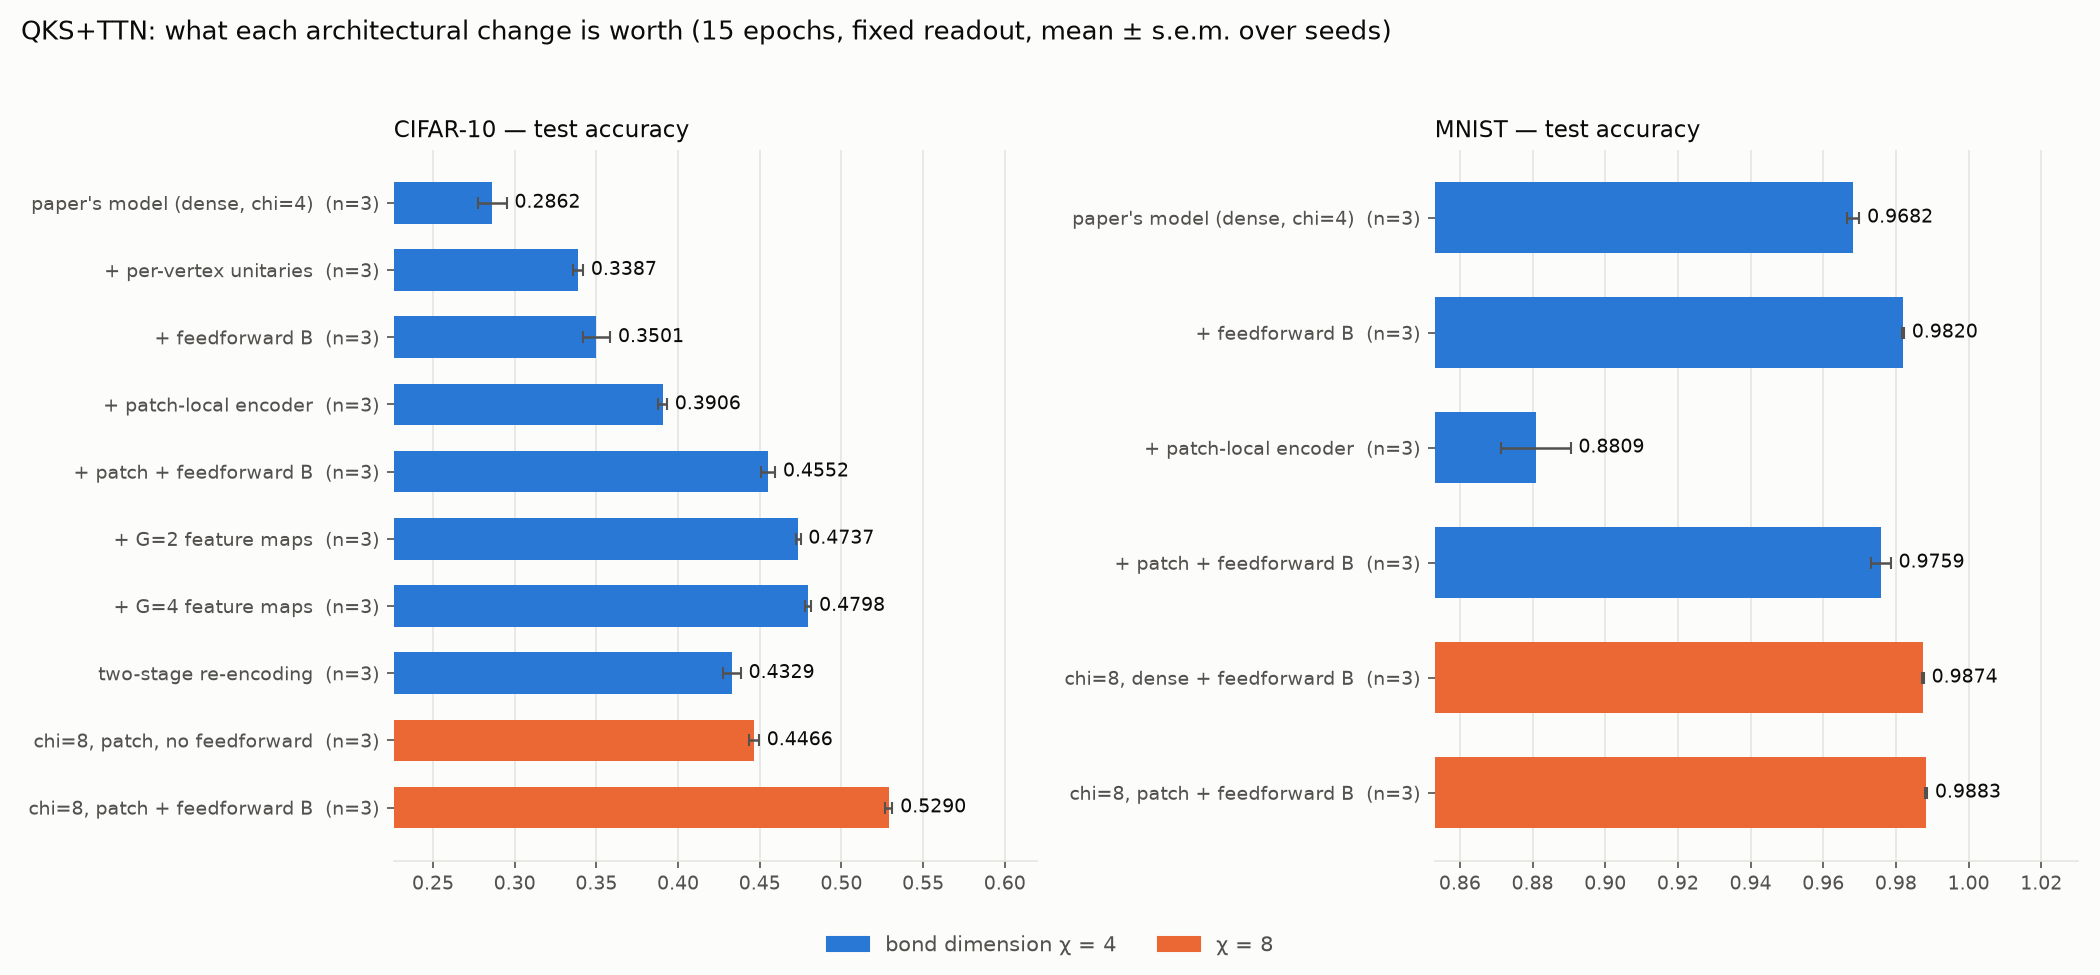
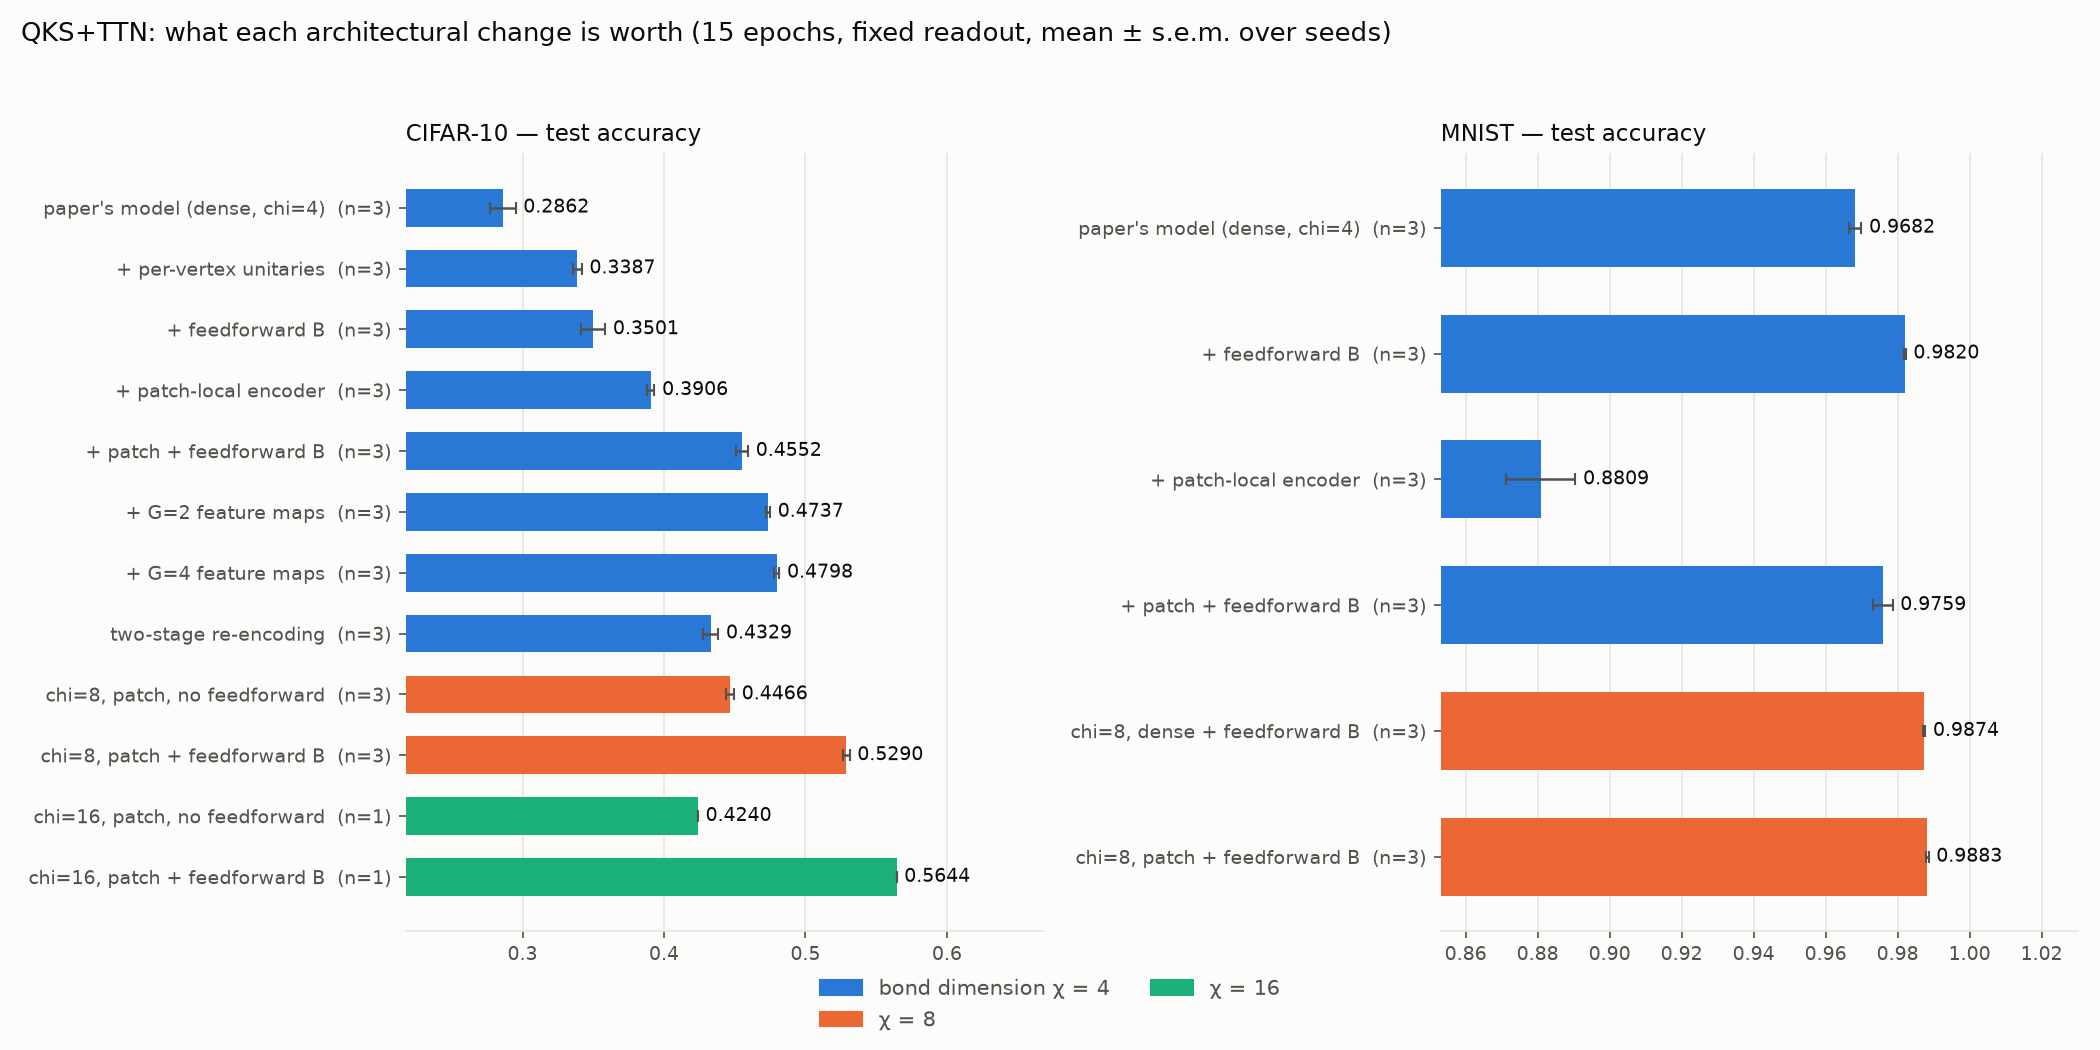
chi=16 final: CIFAR-10 0.5644, best of study (+27.8pp over the paper); feedforward gain grows with bond dimension; close out the night

diff --git a/qks-tn-library/make_summary_figure.py b/qks-tn-library/make_summary_figure.py
@@ -30,6 +30,8 @@ ROWS = [
     ("cifar10", "two-stage re-encoding", dict(encoder="twostage", mode="B", share=False, chi=4, groups=1)),
     ("cifar10", "chi=8, patch, no feedforward", dict(encoder="patch", mode="baseline", share=False, chi=8, groups=1)),
     ("cifar10", "chi=8, patch + feedforward B", dict(encoder="patch", mode="B", share=False, chi=8, groups=1)),
+    ("cifar10", "chi=16, patch, no feedforward", dict(encoder="patch", mode="baseline", share=True, chi=16, groups=1)),
+    ("cifar10", "chi=16, patch + feedforward B", dict(encoder="patch", mode="B", share=True, chi=16, groups=1)),
     ("multiclass", "paper's model (dense, chi=4)", dict(encoder="dense", mode="baseline", share=True, chi=4, groups=1)),
     ("multiclass", "+ feedforward B", dict(encoder="dense", mode="B", share=False, chi=4, groups=1)),
     ("multiclass", "+ patch-local encoder", dict(encoder="patch", mode="baseline", share=False, chi=4, groups=1)),
@@ -117,7 +119,7 @@ def main():
     import matplotlib.pyplot as plt
 
     runs = load_all()
-    fig, axes = plt.subplots(1, 2, figsize=(14, 6.5), facecolor=SURFACE, gridspec_kw=dict(width_ratios=[1, 1]))
+    fig, axes = plt.subplots(1, 2, figsize=(14, 7.0), facecolor=SURFACE, gridspec_kw=dict(width_ratios=[1, 1]))
     for ax, task, title in ((axes[0], "cifar10", "CIFAR-10"), (axes[1], "multiclass", "MNIST")):
         rows = [(lab, m) for t, lab, m in ROWS if t == task]
         labels, means, errs, colors = [], [], [], []
@@ -148,8 +150,8 @@ def main():
         ax.set_title(f"{title} — test accuracy", loc="left", fontsize=11, color=INK)
         for yi, (mu, e) in enumerate(zip(means, errs)):
             ax.text(mu + e + (xlim[1] - xlim[0]) * 0.012, yi, f"{mu:.4f}", va="center", fontsize=9, color=INK)
-    handles = [plt.Rectangle((0, 0), 1, 1, color=PALETTE[c]) for c in (4, 8)]
-    fig.legend(handles, ["bond dimension χ = 4", "χ = 8"], loc="lower center", ncol=2, frameon=False, fontsize=10, labelcolor=INK2)
+    handles = [plt.Rectangle((0, 0), 1, 1, color=PALETTE[c]) for c in (4, 8, 16)]
+    fig.legend(handles, ["bond dimension χ = 4", "χ = 8", "χ = 16"], loc="lower center", ncol=2, frameon=False, fontsize=10, labelcolor=INK2)
     fig.suptitle(
         "QKS+TTN: what each architectural change is worth (15 epochs, fixed readout, mean ± s.e.m. over seeds)",
         x=0.01, ha="left", fontsize=12.5, color=INK,

diff --git a/qks-tn-library/RESEARCH_QUEUE.md b/qks-tn-library/RESEARCH_QUEUE.md
@@ -156,13 +156,17 @@ times: the night's work began ~21:30 PDT 2026-08-25 and this correction was made
   1.28 M images for 7 epochs is under-trained, not over-capacity (its training accuracy was still rising
   at 0.0031). Nothing to conclude beyond the scope statement already recorded: ImageNet-32 is
   readout-bound for this ansatz and is not a productive target without a much wider readout.
-- **[19]** **chi = 16 unblocked and running.** The dense Hermitian basis is (K, d, d): 0.13 GB at chi=8
+- **[19]** **chi = 16 unblocked, and it is the best model of the study.** The dense Hermitian basis is (K, d, d): 0.13 GB at chi=8
   but **34 GB at chi=16**, which is why chi=8 was the practical ceiling. Replaced by a scatter-based
   construction (`params_to_hermitian_scatter`, auto-selected above chi=8, numerically identical to the
   basis version and covered by a test). First data point, CIFAR L0 (patch, shared unitaries, no
   feedforward), 1 seed: **chi=4 0.3277 -> chi=16 0.4240** (84 ms/step, 393,210 TN params, 256-outcome
-  readout). The bond-dimension lever has still not saturated. The mode-B arm at chi=16 runs at
-  447 ms/step (~3 h) and is in progress.
+  readout). The bond-dimension lever has still not saturated. Final numbers (CIFAR, patch encoder, shared unitaries, 1 seed):
+  baseline **0.4240** (393,210 TN params, 84 ms/step) and with feedforward B **0.5644** (10.9 M params,
+  426 ms/step) -- **the best CIFAR-10 result of the whole study**, beating chi=8 per-vertex B (0.5290),
+  and feedforward is worth **+14.0 pp** at chi=16 (vs +8.2 at chi=8, +6.5 at chi=4). The bond-dimension
+  ladder for patch + feedforward B: chi=4 shared 0.4022 -> chi=4 per-vertex 0.4552 -> chi=8 per-vertex
+  0.5290 -> **chi=16 shared 0.5644**. Still no sign of saturation.
 
 ---
 
@@ -189,13 +193,15 @@ On CIFAR-10, three independent changes to the published model compound:
 | + multishot feedforward (mode B, per-vertex) | 0.4552 +/- 0.0042 |
 | + bond dimension chi = 8 | **0.5290 +/- 0.0023** |
 
-**+24.3 pp, 85 % relative**, every step positive on every seed. On MNIST the same stack reaches
+**+24.3 pp, 85 % relative**, every step positive on every seed. Adding chi = 16 (single seed, run after
+this table was drafted) takes it to **0.5644 -- +27.8 pp, 97 % relative** over the published model. On MNIST the same stack reaches
 **0.9883 +/- 0.0003** (paper: 0.9673), and there the 150-parameter patch encoder *matches* the
 150,720-parameter dense one.
 
 ## Ranking of the expressivity levers (all measured, 3 seeds each)
-1. **Bond dimension** chi 4 -> 8: +7.4 pp on the best CIFAR model; also subsumes feature maps.
-2. **Feedforward** (mode B): +6.5 pp at chi=4, +8.2 pp at chi=8 -- and the gain *grows* with chi.
+1. **Bond dimension** chi 4 -> 8 -> 16: +7.4 pp then a further +3.5 pp on the best CIFAR model; also
+   subsumes feature maps, and the feedforward gain *grows* with it (+6.5 / +8.2 / +14.0 pp).
+2. **Feedforward** (mode B): +6.5 pp at chi=4, +8.2 pp at chi=8, +14.0 pp at chi=16.
 3. **Locality** (patch encoder): +10.5 pp at chi=4, +15.1 pp at chi=8.
 4. **Feature maps** G: +1.85 pp at G=2, +0.61 pp more at G=4, **+0.13 pp at chi=8** (redundant once
    registers are wide).
@@ -230,3 +236,17 @@ On CIFAR-10, three independent changes to the published model compound:
 3. A wider readout for many-class problems (parallel trees concatenated, or a structured class code) if
    ImageNet-scale is wanted at all.
 4. Unrun ablations: `--ff-layers` (root-only / top-two) and centred features at chi = 8.
+
+---
+
+## Night closed out (03:40 PDT 2026-08-26)
+
+Every queue item is complete and the compute budget (~$37 of $40) is spent, so the loop is stopping
+about two hours before the nominal 06:00 mark rather than idling. Final state:
+
+- **Best CIFAR-10**: 0.5644 (patch-local encoder + multishot feedforward, chi = 16, shared unitaries)
+  against the published model's 0.2862 -- **+27.8 pp**.
+- **Best MNIST**: 0.9883 +/- 0.0003 (patch + feedforward, chi = 8) against 0.9682.
+- 29 commits on branch `feedforward`; nothing pushed.
+- Everything reproducible: `FEEDFORWARD.md` (write-up + figures), this queue (chronological log),
+  `qks-tn-library/results/<sweep>/` (per-epoch histories + per-cycle checkpoints on the Modal volume).

diff --git a/FEEDFORWARD.md b/FEEDFORWARD.md
@@ -187,7 +187,11 @@ the ceiling. First CIFAR-10 data point for the shared-unitary patch baseline wit
 | 4 | 16 | 1,530 | 0.3277 ± 0.0042 | 13 |
 | 16 | 256 | 393,210 | 0.4240 (1 seed) | 84 |
 
-Bond dimension has not saturated.
+and with feedforward B on the same shared-unitary patch model, chi = 16 reaches **0.5644** (10.9 M TN
+parameters, 426 ms/step) — **the best CIFAR-10 result in this study**, above chi = 8 per-vertex B
+(0.5290) and **+27.8 pp over the published model**. The feedforward gain itself keeps growing with the
+register width: **+6.5 pp at chi = 4, +8.2 pp at chi = 8, +14.0 pp at chi = 16**. Bond dimension has not
+saturated, and it is the lever that makes the others pay.
 
 ## Checkpointing and training for more epochs
 
